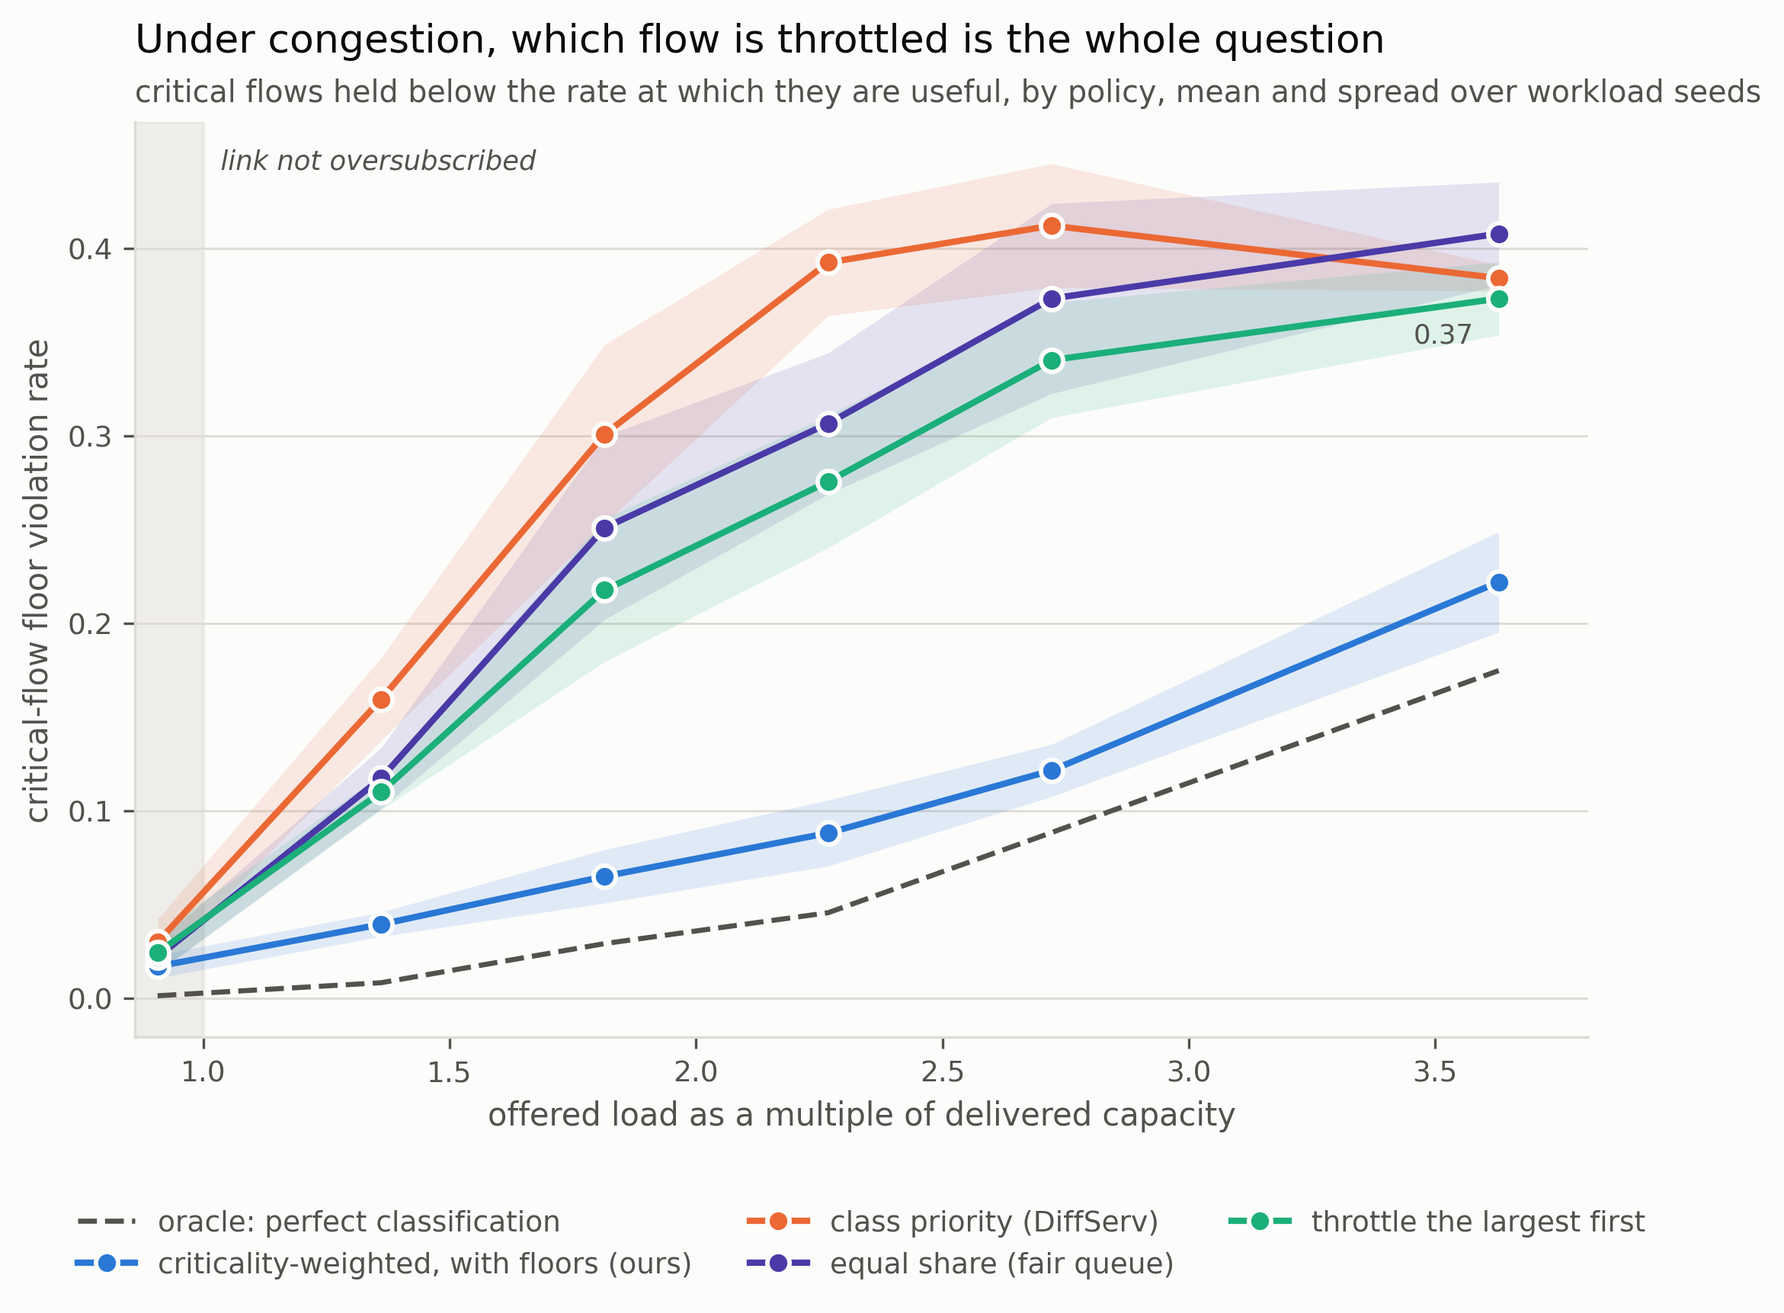
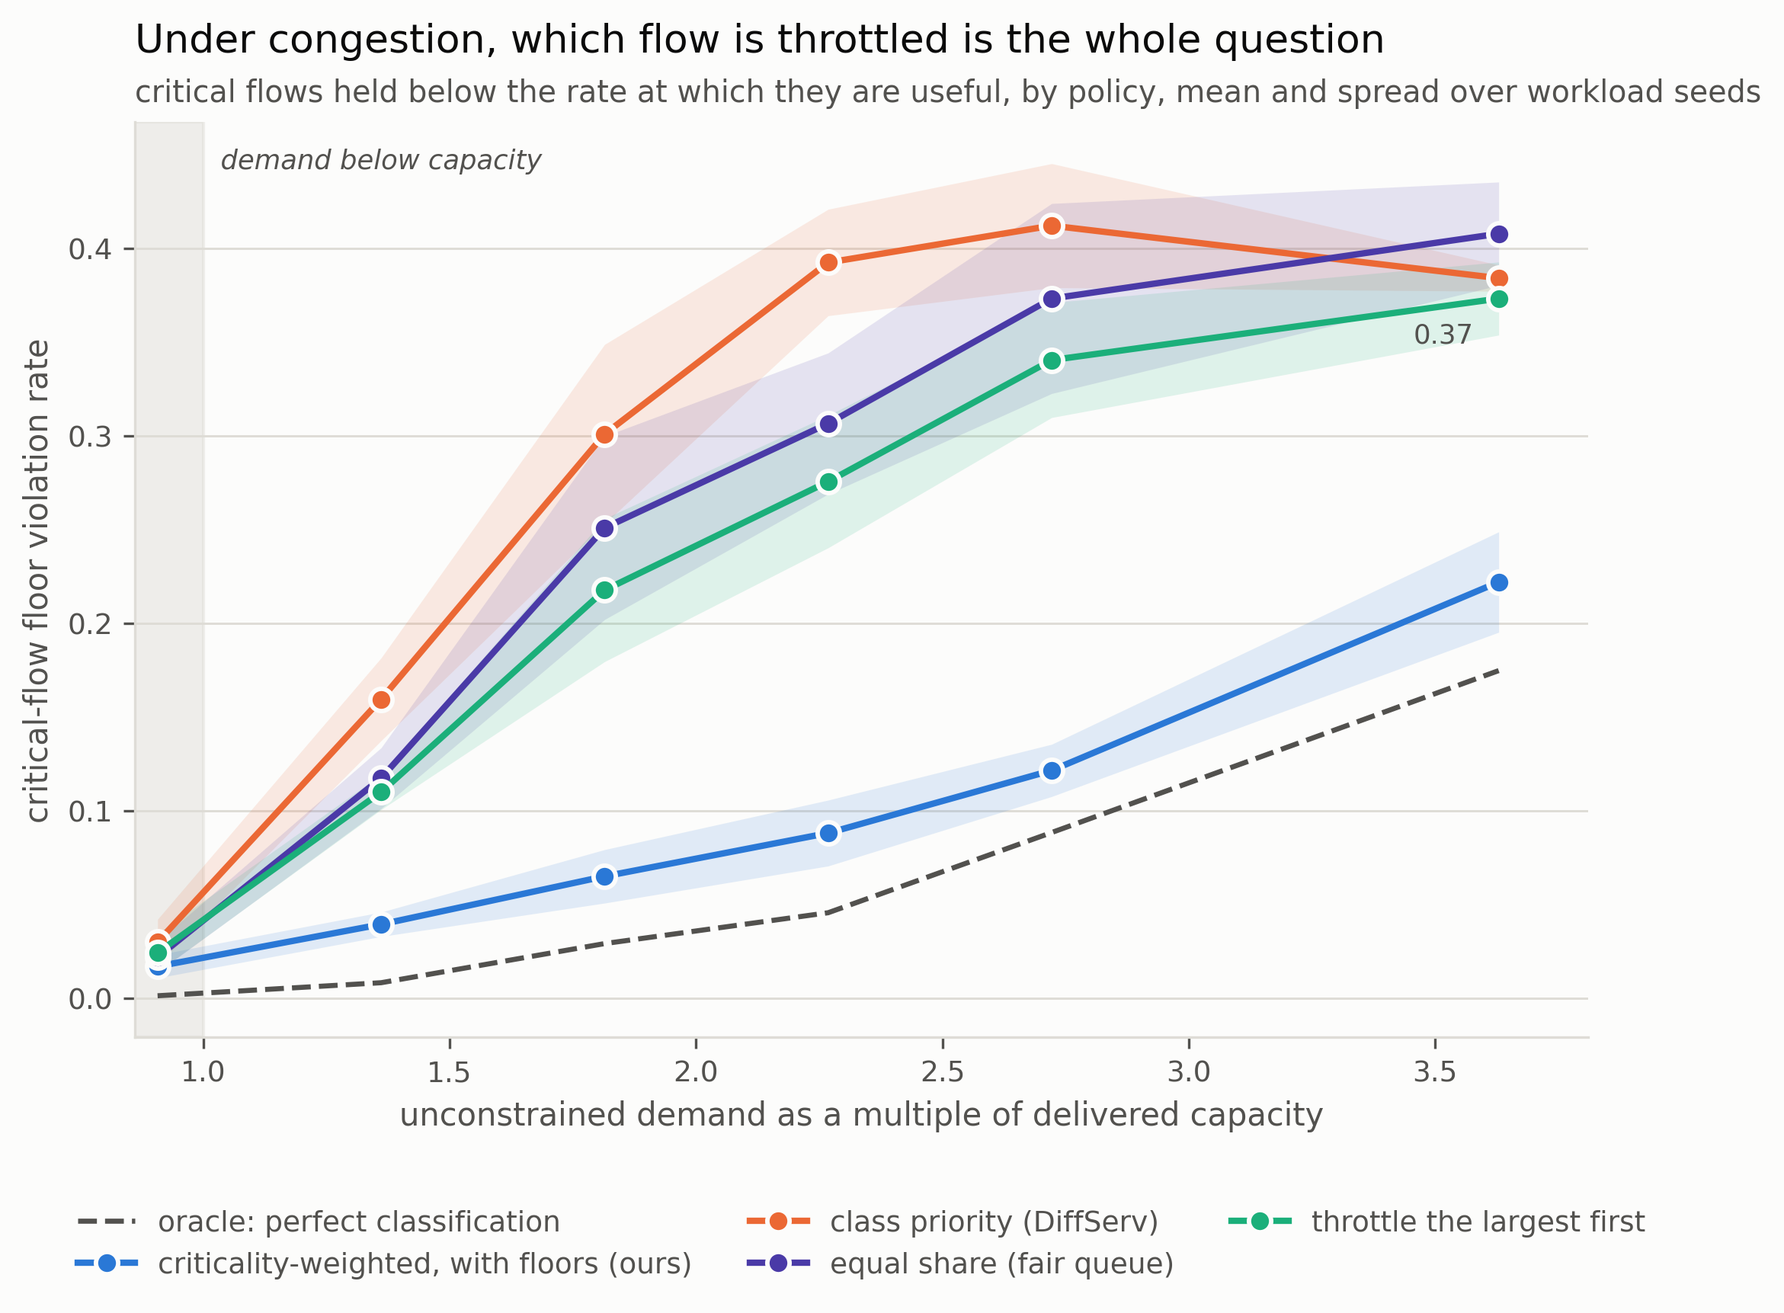
exp: the protection layer on all three StarNet links, and the figure that makes them one result
Chicago and Osnabruck join Victoria. A ninth figure, three panels sharing
axes, because fifteen series on one pair of axes is past what any palette
separates and the comparison of interest is within a panel.

The x axis is what makes the figure worth having. The three traces do not
deliver the same capacity: Chicago carries about 222 Mbps against Victoria's
146, so the same workload at the same nominal setting leaves one link under
capacity and the other half as much again over it. Plotted against the
workload's own load multiplier the three panels look like three different
results. Plotted against how oversubscribed each link actually is, they are
one: at roughly 1.8x unconstrained demand the critical-flow violation rate is
0.065, 0.048 and 0.042 against a best baseline of 0.218, 0.165 and 0.141.

The two figures had been using two different definitions of offered load, one
measured and one unconstrained, and the README quoted the measured one beside
a figure drawn with the other. Both now use unconstrained demand, which is the
only one that can be a shared axis: the measured offered load falls when
elastic transfers back off, by a different amount under each policy.

Chicago also produced a property worth stating on its own. At 2x nominal load
it is not short of capacity, nothing is throttled, the elasticity channel has
no experiment to read and the deadline channel sees plenty of slack. The
radiology push scores 0.24 instead of 0.72 and is not protected, because
[…]

Changed region(s): [[0.2183, 0.8305, 0.7484, 0.8613], [0.1247, 0.0923, 0.3118, 0.1538]]

diff --git a/newml/flwcnx/scripts/make_protection_figures.py b/newml/flwcnx/scripts/make_protection_figures.py
@@ -56,6 +56,10 @@ POLICY_COLOUR = {
     "equal_share": VIOLET,
     "shed_largest": AQUA,
 }
+#: Trace folder to the city the trace was actually recorded in. Two of the
+#: three released folders are mislabelled, which is documented in the data
+#: section of the README and handled in the loader.
+LOCATION_LABEL = {"usa": "Chicago", "germany": "Osnabruck", "canada": "Victoria"}
 POLICY_LABEL = {
     "protected": "criticality-weighted, with floors (ours)",
     "by_class": "class priority (DiffServ)",
@@ -236,6 +240,10 @@ def fig_policy_sweep(run: Path, out: Path) -> Path | None:
                   for a in data.get("workload_archetypes", []))
     capacity = float(data.get("capacity_series", {}).get("realised_mean_mbps", 0.0)) or 1.0
     load["mean_over"] = load["load_multiplier"] * nominal / capacity
+    # This is *unconstrained* demand: what the flows would ask for on an idle
+    # link. Their measured offered load is lower, because elastic transfers back
+    # off, and by a different amount under each policy, which is exactly why it
+    # cannot be the shared axis.
 
     fig, ax = plt.subplots(figsize=(8.2, 5.2))
     oracle = load[load["policy"] == "oracle"].sort_values("load_multiplier")
@@ -266,11 +274,11 @@ def fig_policy_sweep(run: Path, out: Path) -> Path | None:
     _style(ax, title="Under congestion, which flow is throttled is the whole question",
            subtitle="critical flows held below the rate at which they are useful, "
                     "by policy, mean and spread over workload seeds",
-           xlabel="offered load as a multiple of delivered capacity",
+           xlabel="unconstrained demand as a multiple of delivered capacity",
            ylabel="critical-flow floor violation rate")
     ax.axvspan(0.0, 1.0, color=GRID, alpha=0.45, zorder=0)
     ax.set_xlim(left=float(load["mean_over"].min()) * 0.95)
-    ax.text(min(1.0, ax.get_xlim()[1]), ax.get_ylim()[1] * 0.97, "  link not oversubscribed",
+    ax.text(min(1.0, ax.get_xlim()[1]), ax.get_ylim()[1] * 0.97, "  demand below capacity",
             fontsize=8.5, color=TEXT_SECONDARY, va="top", style="italic")
     # Below the axes. Five entries do not fit in any corner once the sweep has
     # its full set of load levels, and every corner has a series in it.
@@ -656,6 +664,77 @@ def fig_evidence(run: Path, out: Path) -> Path | None:
     return _save(fig, out / "protection-evidence.png")
 
 
+# -- 9. cross location ------------------------------------------------------
+
+
+def fig_cross_location(runs: list[Path], out: Path) -> Path | None:
+    """The same sweep on three links, as small multiples.
+
+    Fifteen series on one pair of axes is past what any palette separates, and
+    the comparison of interest is within a panel rather than across them.
+
+    The x axis is oversubscription rather than the workload's nominal load
+    multiplier, and that is the whole reason this figure exists. Chicago
+    delivers about 222 Mbps against Victoria's 146, so the same workload at the
+    same nominal setting leaves one link comfortably under capacity and the
+    other half as much again over it. Plotted against the load multiplier the
+    three panels look like three different results; plotted against how
+    oversubscribed each link actually is, they are one.
+    """
+    loaded = [(r, _read(r)) for r in runs if (r / "result.json").exists()]
+    if len(loaded) < 2:
+        return None
+
+    fig, axes = plt.subplots(1, len(loaded), figsize=(4.3 * len(loaded), 4.4),
+                             sharey=True, gridspec_kw={"wspace": 0.09})
+    axes = np.atleast_1d(axes)
+
+    for index, (ax, (run, data)) in enumerate(zip(axes, loaded, strict=True)):
+        rows = data.get("policies")
+        if not rows:
+            continue
+        load = _aggregate(rows, ["policy", "load_multiplier"],
+                          "critical_violation_allocated")
+        nominal = sum(a["nominal_mbps"] * a["concurrency"]
+                      for a in data.get("workload_archetypes", []))
+        realised = float(data.get("capacity_series", {})
+                         .get("realised_mean_mbps", 0.0)) or 1.0
+        load["mean_over"] = load["load_multiplier"] * nominal / realised
+
+        oracle = load[load["policy"] == "oracle"].sort_values("load_multiplier")
+        if not oracle.empty:
+            ax.plot(oracle["mean_over"], oracle["mean"], linestyle="--",
+                    linewidth=1.5, color=TEXT_SECONDARY, zorder=5,
+                    label=POLICY_LABEL["oracle"])
+        for policy in DEPLOYABLE:
+            series = load[load["policy"] == policy].sort_values("load_multiplier")
+            if series.empty:
+                continue
+            colour = POLICY_COLOUR[policy]
+            ax.fill_between(series["mean_over"], series["mean"] - series["std"],
+                            series["mean"] + series["std"], color=colour,
+                            alpha=0.13, linewidth=0, zorder=2)
+            ax.plot(series["mean_over"], series["mean"], marker="o", markersize=5.5,
+                    linewidth=1.9, color=colour, zorder=4, label=POLICY_LABEL[policy],
+                    markeredgecolor=SURFACE, markeredgewidth=1.2)
+
+        ax.axvspan(0.0, 1.0, color=GRID, alpha=0.45, zorder=0)
+        _style(ax, title=f"{LOCATION_LABEL.get(run.name, run.name)}, "
+                         f"{realised:.0f} Mbps delivered",
+               xlabel="unconstrained demand over delivered capacity")
+        if index == 0:
+            ax.set_ylabel("critical-flow floor violation rate",
+                          color=TEXT_SECONDARY, fontsize=10)
+        ax.set_xlim(left=0.3)
+
+    axes[0].legend(frameon=False, fontsize=9, labelcolor=TEXT_SECONDARY, ncol=5,
+                   loc="upper left", bbox_to_anchor=(0.0, -0.17))
+    fig.suptitle("Three links, one result, once the axis is what the link is "
+                 "actually carrying", x=0.005, ha="left", fontsize=13,
+                 color=TEXT_PRIMARY, y=1.04)
+    return _save(fig, out / "protection-cross-location.png")
+
+
 FIGURES = (fig_case_study, fig_policy_sweep, fig_cost, fig_scorer,
            fig_deadline, fig_ablation, fig_calibration_coupling, fig_evidence)
 
@@ -664,10 +743,21 @@ def main(argv: list[str] | None = None) -> int:
     parser = argparse.ArgumentParser(description=__doc__,
                                      formatter_class=argparse.RawDescriptionHelpFormatter)
     parser.add_argument("--run", type=Path, default=Path("results/protection/canada"))
+    parser.add_argument("--cross", type=Path, nargs="*",
+                        default=[Path("results/protection/canada"),
+                                 Path("results/protection/germany"),
+                                 Path("results/protection/usa")],
+                        help="runs for the cross-location panel")
     parser.add_argument("--out", type=Path, default=Path("docs/figures"))
     args = parser.parse_args(argv)
 
     written = 0
+    path = fig_cross_location(list(args.cross), args.out)
+    if path is None:
+        print("skipped fig_cross_location: fewer than two runs available")
+    else:
+        print(f"wrote {path}  ({DPI} DPI)")
+        written += 1
     for figure in FIGURES:
         path = figure(args.run, args.out)
         if path is None:

diff --git a/newml/flwcnx/results/summary/protection-usa.md b/newml/flwcnx/results/summary/protection-usa.md
@@ -1,0 +1,103 @@
+# Protection layer: usa
+
+Run `results/protection/usa`, 2,000 decisions, 5 workload seeds, seed 1337. Config snapshot and environment are in `result.json`.
+
+**The capacity is measured and the flows are a model.** No public LEO dataset carries a flow table, process attribution or a user-attention signal, so the capacity series below is the calibrated bound and the realised throughput from a trained pipeline over the real traces, and the flows contending for it come from `flwcnx/eval/workload.py`. Every number here is a number about that workload.
+
+| capacity series | |
+|---|---|
+| decisions | 2,000 |
+| calibrated bound, mean | 212.8 Mbps |
+| realised throughput, mean | 222.4 Mbps |
+| realised risk rate | 0.352 against a budget of 0.35 |
+| point forecast risk rate | 0.501 |
+
+
+## Policies at 2x offered load
+
+| policy | critical violation (allocated) | critical violation (delivered) | critical transfers abandoned | critical goodput | ordinary goodput | link utilisation | ordinary slowdown |
+|---|---|---|---|---|---|---|---|
+| oracle (perfect classification) | 0.002 +/- 0.002 | 0.030 | 0.000 | 0.952 | 0.918 | 0.618 | 1.09x |
+| **criticality-weighted, with floors (ours)** | 0.029 +/- 0.006 | 0.062 | 0.000 | 0.874 | 0.954 | 0.669 | 1.05x |
+| class priority (DiffServ) | 0.081 +/- 0.033 | 0.110 | 0.007 | 0.781 | 0.949 | 0.708 | 1.10x |
+| equal share (fair queue) | 0.039 +/- 0.021 | 0.067 | 0.000 | 0.869 | 0.955 | 0.671 | 1.04x |
+| throttle the largest first | 0.042 +/- 0.018 | 0.067 | 0.000 | 0.860 | 0.959 | 0.678 | 1.03x |
+
+## The load sweep
+
+Under light load nothing has to be shed and every policy looks the same. Under heavy enough load the floors stop fitting and the oracle fails too. Either end on its own would be mistaken for the general case.
+
+| offered load | oracle (perfect classification) | criticality-weighted, with floors (ours) | class priority (DiffServ) | equal share (fair queue) | throttle the largest first |
+|---|---|---|---|---|---|
+| 1x nominal (0.4x capacity) | 0.000 | 0.006 | 0.007 | 0.005 | 0.005 |
+| 1.5x nominal (0.6x capacity) | 0.001 | 0.015 | 0.023 | 0.015 | 0.017 |
+| 2x nominal (0.7x capacity) | 0.002 | 0.029 | 0.081 | 0.039 | 0.042 |
+| 2.5x nominal (0.9x capacity) | 0.002 | 0.038 | 0.144 | 0.063 | 0.069 |
+| 3x nominal (1.1x capacity) | 0.003 | 0.042 | 0.274 | 0.152 | 0.141 |
+| 4x nominal (1.6x capacity) | 0.013 | 0.054 | 0.381 | 0.285 | 0.251 |
+
+## Where the violations land
+
+| archetype | must not be shed | mean criticality | violation rate | goodput |
+|---|---|---|---|---|
+| pacs image push | yes | 0.24 | 0.125 | 0.85 |
+| research upload | yes | 0.28 | 0.035 | 0.93 |
+| patient monitor | yes | 0.88 | 0.000 | 0.98 |
+| teleconsult video | yes | 0.93 | 0.000 | 0.98 |
+| video stream | no | 0.42 | 0.005 | 0.96 |
+| cloud backup | no | 0.03 | 0.000 | 0.92 |
+| greedy downloader | no | 0.55 | 0.000 | 0.95 |
+| os update | no | 0.12 | 0.000 | 0.93 |
+
+## Removing a mechanism
+
+| variant | critical violation | change | critical goodput | scorer AP | flap rate |
+|---|---|---|---|---|---|
+| full | 0.029 +/- 0.006 |  | 0.874 | 0.845 | 0.0016 |
+| no floors | 0.040 +/- 0.018 | +0.011 | 0.868 | 0.843 | 0.0018 |
+| no hysteresis | 0.030 +/- 0.006 | +0.001 | 0.873 | 0.844 | 0.0032 |
+| no priors | 0.026 +/- 0.007 | -0.002 | 0.885 | 0.790 | 0.0015 |
+| priors only | 0.043 +/- 0.025 | +0.014 | 0.860 | 0.760 | 0.0000 |
+| sharp weights | 0.031 +/- 0.006 | +0.002 | 0.869 | 0.846 | 0.0015 |
+
+## Removing an evidence channel
+
+A channel whose removal improves the outcome is not carrying its weight. The defaults were not retuned on the strength of this table, because fitting the weights on the evaluation workload and then evaluating on the same generator is the circularity the module docstring warns about.
+
+| channel removed | critical violation | change | critical goodput | scorer AP | flap rate |
+|---|---|---|---|---|---|
+| attention | 0.028 +/- 0.005 | -0.001 | 0.871 | 0.849 | 0.0003 |
+| deadline | 0.022 +/- 0.009 | -0.007 | 0.893 | 0.903 | 0.0012 |
+| elasticity | 0.040 +/- 0.010 | +0.011 | 0.859 | 0.831 | 0.0004 |
+| interactivity | 0.021 +/- 0.004 | -0.007 | 0.880 | 0.799 | 0.0029 |
+| irreversibility | 0.035 +/- 0.007 | +0.006 | 0.862 | 0.829 | 0.0011 |
+| none | 0.029 +/- 0.006 |  | 0.874 | 0.845 | 0.0016 |
+| recurrence | 0.035 +/- 0.007 | +0.006 | 0.863 | 0.827 | 0.0018 |
+| volume | 0.027 +/- 0.005 | -0.002 | 0.875 | 0.850 | 0.0013 |
+
+## Dividing the bound against dividing the forecast
+
+The allocator honours every feasible floor in both arms. Against the point forecast it writes *more* floors, because the number is larger, and the link then fails them.
+
+| capacity divided | violation (allocated) | violation (delivered) |
+|---|---|---|
+| bound | 0.029 | 0.062 |
+| point forecast | 0.024 | 0.064 |
+
+## The weights are hand set, so they were perturbed
+
+24 draws, each channel weight multiplied by a log-uniform factor spanning a factor of four either way. Critical violation ranged 0.003 to 0.044, median 0.020, against 0.029 at the hand-set values. The best deployable baseline at this load is 0.024, and 15 of 24 draws beat it.
+
+
+## The workload
+
+| archetype | declared | must not be shed | nominal | floor | elastic | deadline |
+|---|---|---|---|---|---|---|
+| patient monitor | life_safety | yes | 0.5 Mbps | 0.4 Mbps | no | none |
+| pacs image push | standard | yes | 28 Mbps | 15.4 Mbps | no | 1.6x |
+| teleconsult video | clinical | yes | 3 Mbps | 1.65 Mbps | no | none |
+| research upload | standard | yes | 16 Mbps | 7.2 Mbps | no | 1.35x |
+| video stream | standard | no | 9 Mbps | 2.7 Mbps | no | none |
+| greedy downloader | clinical | no | 45 Mbps | 0 Mbps | yes | none |
+| os update | standard | no | 32 Mbps | 0 Mbps | yes | none |
+| cloud backup | background | no | 22 Mbps | 0 Mbps | yes | 12x |

diff --git a/newml/flwcnx/README.md b/newml/flwcnx/README.md
@@ -102,7 +102,7 @@ python -m flwcnx.api.server --mode synthetic --port 8010  # stream decisions liv
 
 Four figures. Every number is read from a saved `result.json`, and
 `scripts/make_readme_figures.py` regenerates all of them at 300 DPI. The
-protection layer has [six more](#which-flow-gets-throttled), from
+protection layer has [seven more](#which-flow-gets-throttled), from
 `scripts/make_protection_figures.py`.
 
 ### A published method silently ignores tight risk budgets
@@ -210,8 +210,8 @@ under this layer it is pinned at the floor below which it is not worth carrying.
 
 ![Critical-flow floor violations against offered load, five policies](docs/figures/protection-policy-sweep.png)
 
-Victoria, 2,000 decisions, five workload seeds. At 2x offered load, which is
-1.28x the capacity the link actually delivered:
+Victoria, 2,000 decisions, five workload seeds, at 2x nominal load. The flows
+would ask for 1.8x what the link delivered if nothing constrained them:
 
 | policy | critical transfers that **gave up** | floor violation rate | critical demand delivered |
 |---|---|---|---|
@@ -224,9 +224,10 @@ Victoria, 2,000 decisions, five workload seeds. At 2x offered load, which is
 A transfer held below a useful rate for five minutes gives up, which is both
 what real transfers do and what keeps the simulated backlog bounded. **One
 critical transfer in three hundred gives up under this layer, against one in
-four under class priority.** The sweep is the honest form: below 1x nothing has
-to be shed and every policy is within a point of every other, and by 4x the
-floors stop fitting and the oracle itself violates 0.175.
+four under class priority.** The sweep is the honest form: while demand sits
+below capacity nothing has to be shed and every policy is within a point of
+every other, and at 3.6x the floors stop fitting and the oracle itself violates
+0.175.
 
 The residual violations are not spread evenly. Of the four critical archetypes,
 the patient monitor and the teleconsultation are held above their floors on
@@ -234,6 +235,34 @@ essentially every slot (0.001 and 0.000), the research upload on 94% of them,
 and **almost all of what is left is the radiology push**, at 0.217. It is the
 largest critical flow on the link, it does not declare itself, and it is the
 first thing that stops fitting when the bound falls.
+
+### The same result on all three links
+
+![Victoria, Osnabruck and Chicago, one panel each, the same shape in all three](docs/figures/protection-cross-location.png)
+
+The three traces do not deliver the same capacity: Chicago carries about 222
+Mbps against Victoria's 146. The same workload at the same nominal setting
+therefore leaves one link comfortably under capacity and the other half as much
+again over it, and **plotted against the workload's own load multiplier the
+three panels look like three different results.** Plotted against how
+oversubscribed each link actually is, they are one.
+
+At the point where each link is carrying about 1.8x what its flows would ask
+for unconstrained:
+
+| link | ours | best baseline | oracle |
+|---|---|---|---|
+| Victoria, 146 Mbps | **0.065** | 0.218 (throttle largest) | 0.029 |
+| Osnabruck, 153 Mbps | **0.048** | 0.165 (throttle largest) | 0.012 |
+| Chicago, 222 Mbps | **0.042** | 0.141 (throttle largest) | 0.003 |
+
+A property worth stating because it is not obvious: **when the link is not
+short of capacity the layer does almost nothing.** On Chicago at 2x nominal
+load, where demand sits at 1.2x delivered capacity, nothing is throttled, so
+the elasticity channel has no experiment to read and the deadline channel sees
+plenty of slack. The radiology push scores 0.24 instead of 0.72 and is not
+protected, because nothing needs protecting. The layer is inert until
+congestion makes it necessary.
 
 ### It is not free, and the figure says so
 
@@ -304,7 +333,8 @@ its declaration.
 ## Where this work fails
 
 Four more figures, given equal room. Two of these overturned claims the project
-had already made, which is why they are here rather than in a footnote.
+had already made, and one of them was found by drawing a figure and looking at
+it, which is why they are here rather than in a footnote.
 
 ### No covariate we have improves risk control
 
@@ -445,7 +475,7 @@ flwcnx/
                        protection.py the protection harness and its metrics
   demo/                slot-by-slot replay engine
 docs/                  paper, report, limitations, progress, references.bib
-  figures/             the fifteen README figures, 300 DPI, regenerated from runs
+  figures/             the sixteen README figures, 300 DPI, regenerated from runs
 scripts/               one entry point per experiment, plus figure and table generators
 tests/                 318 tests, synthetic fixtures only
 results/summary/       the committed tables (the rest of results/ is gitignored)
